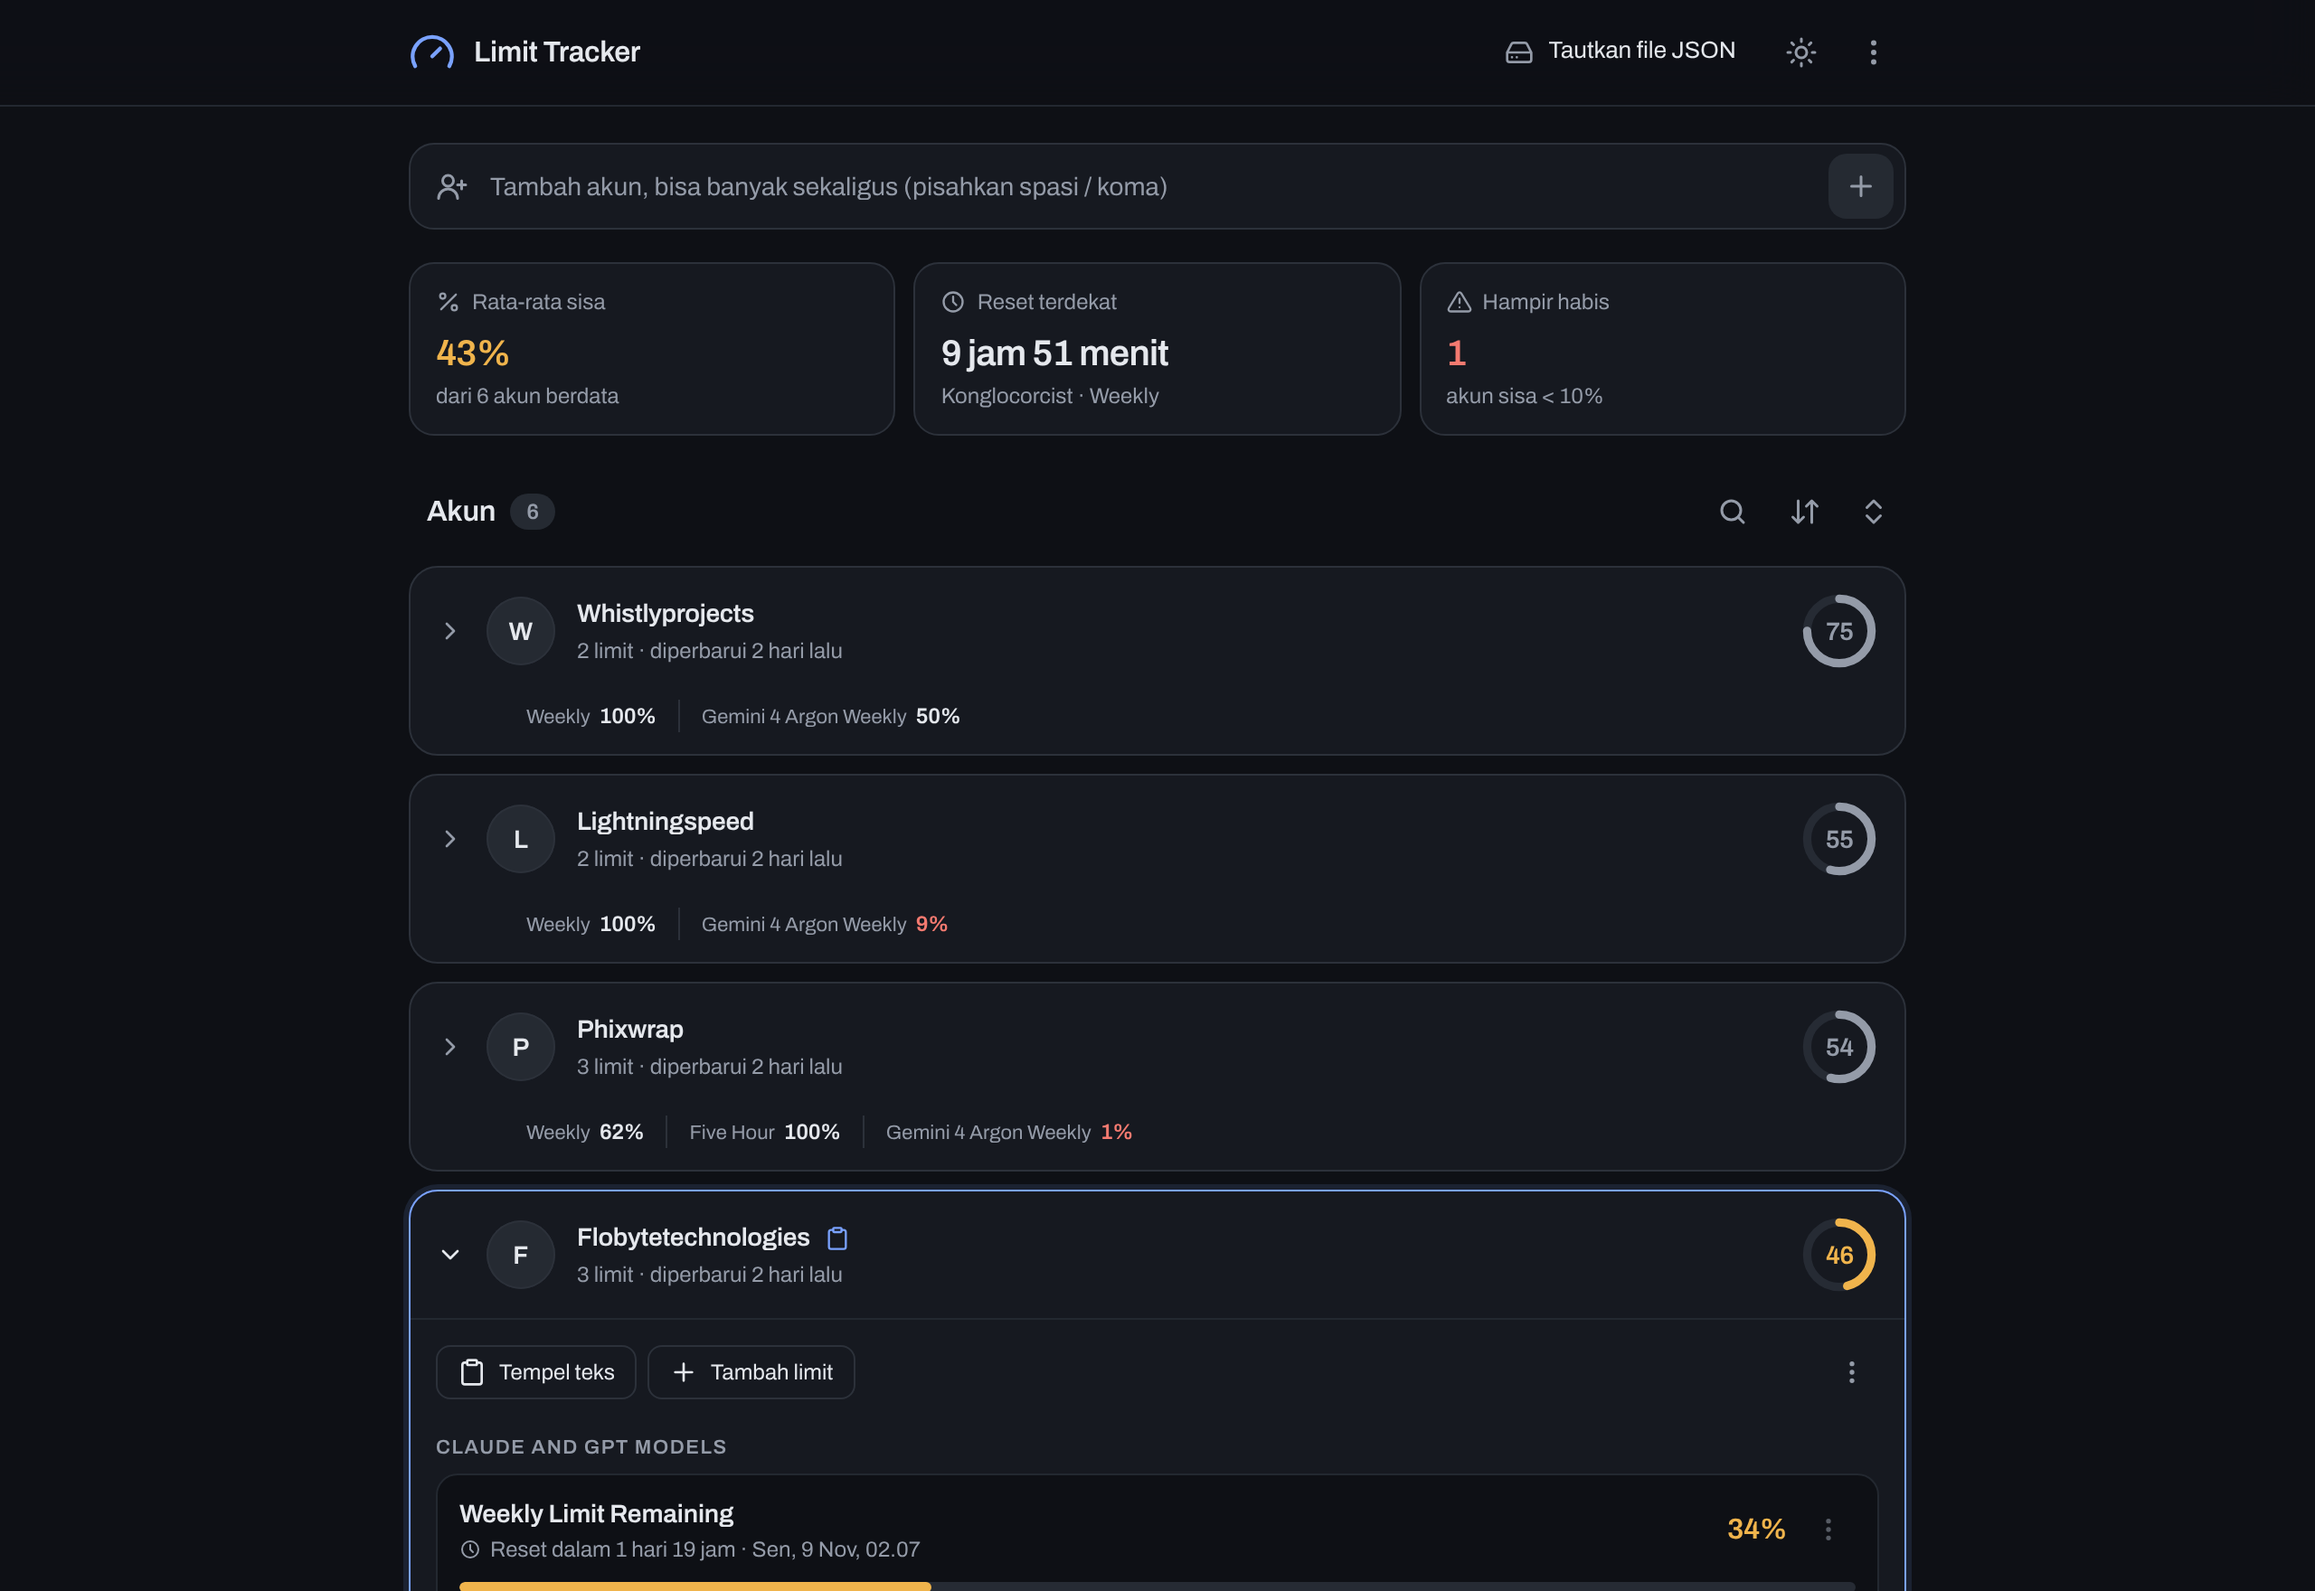
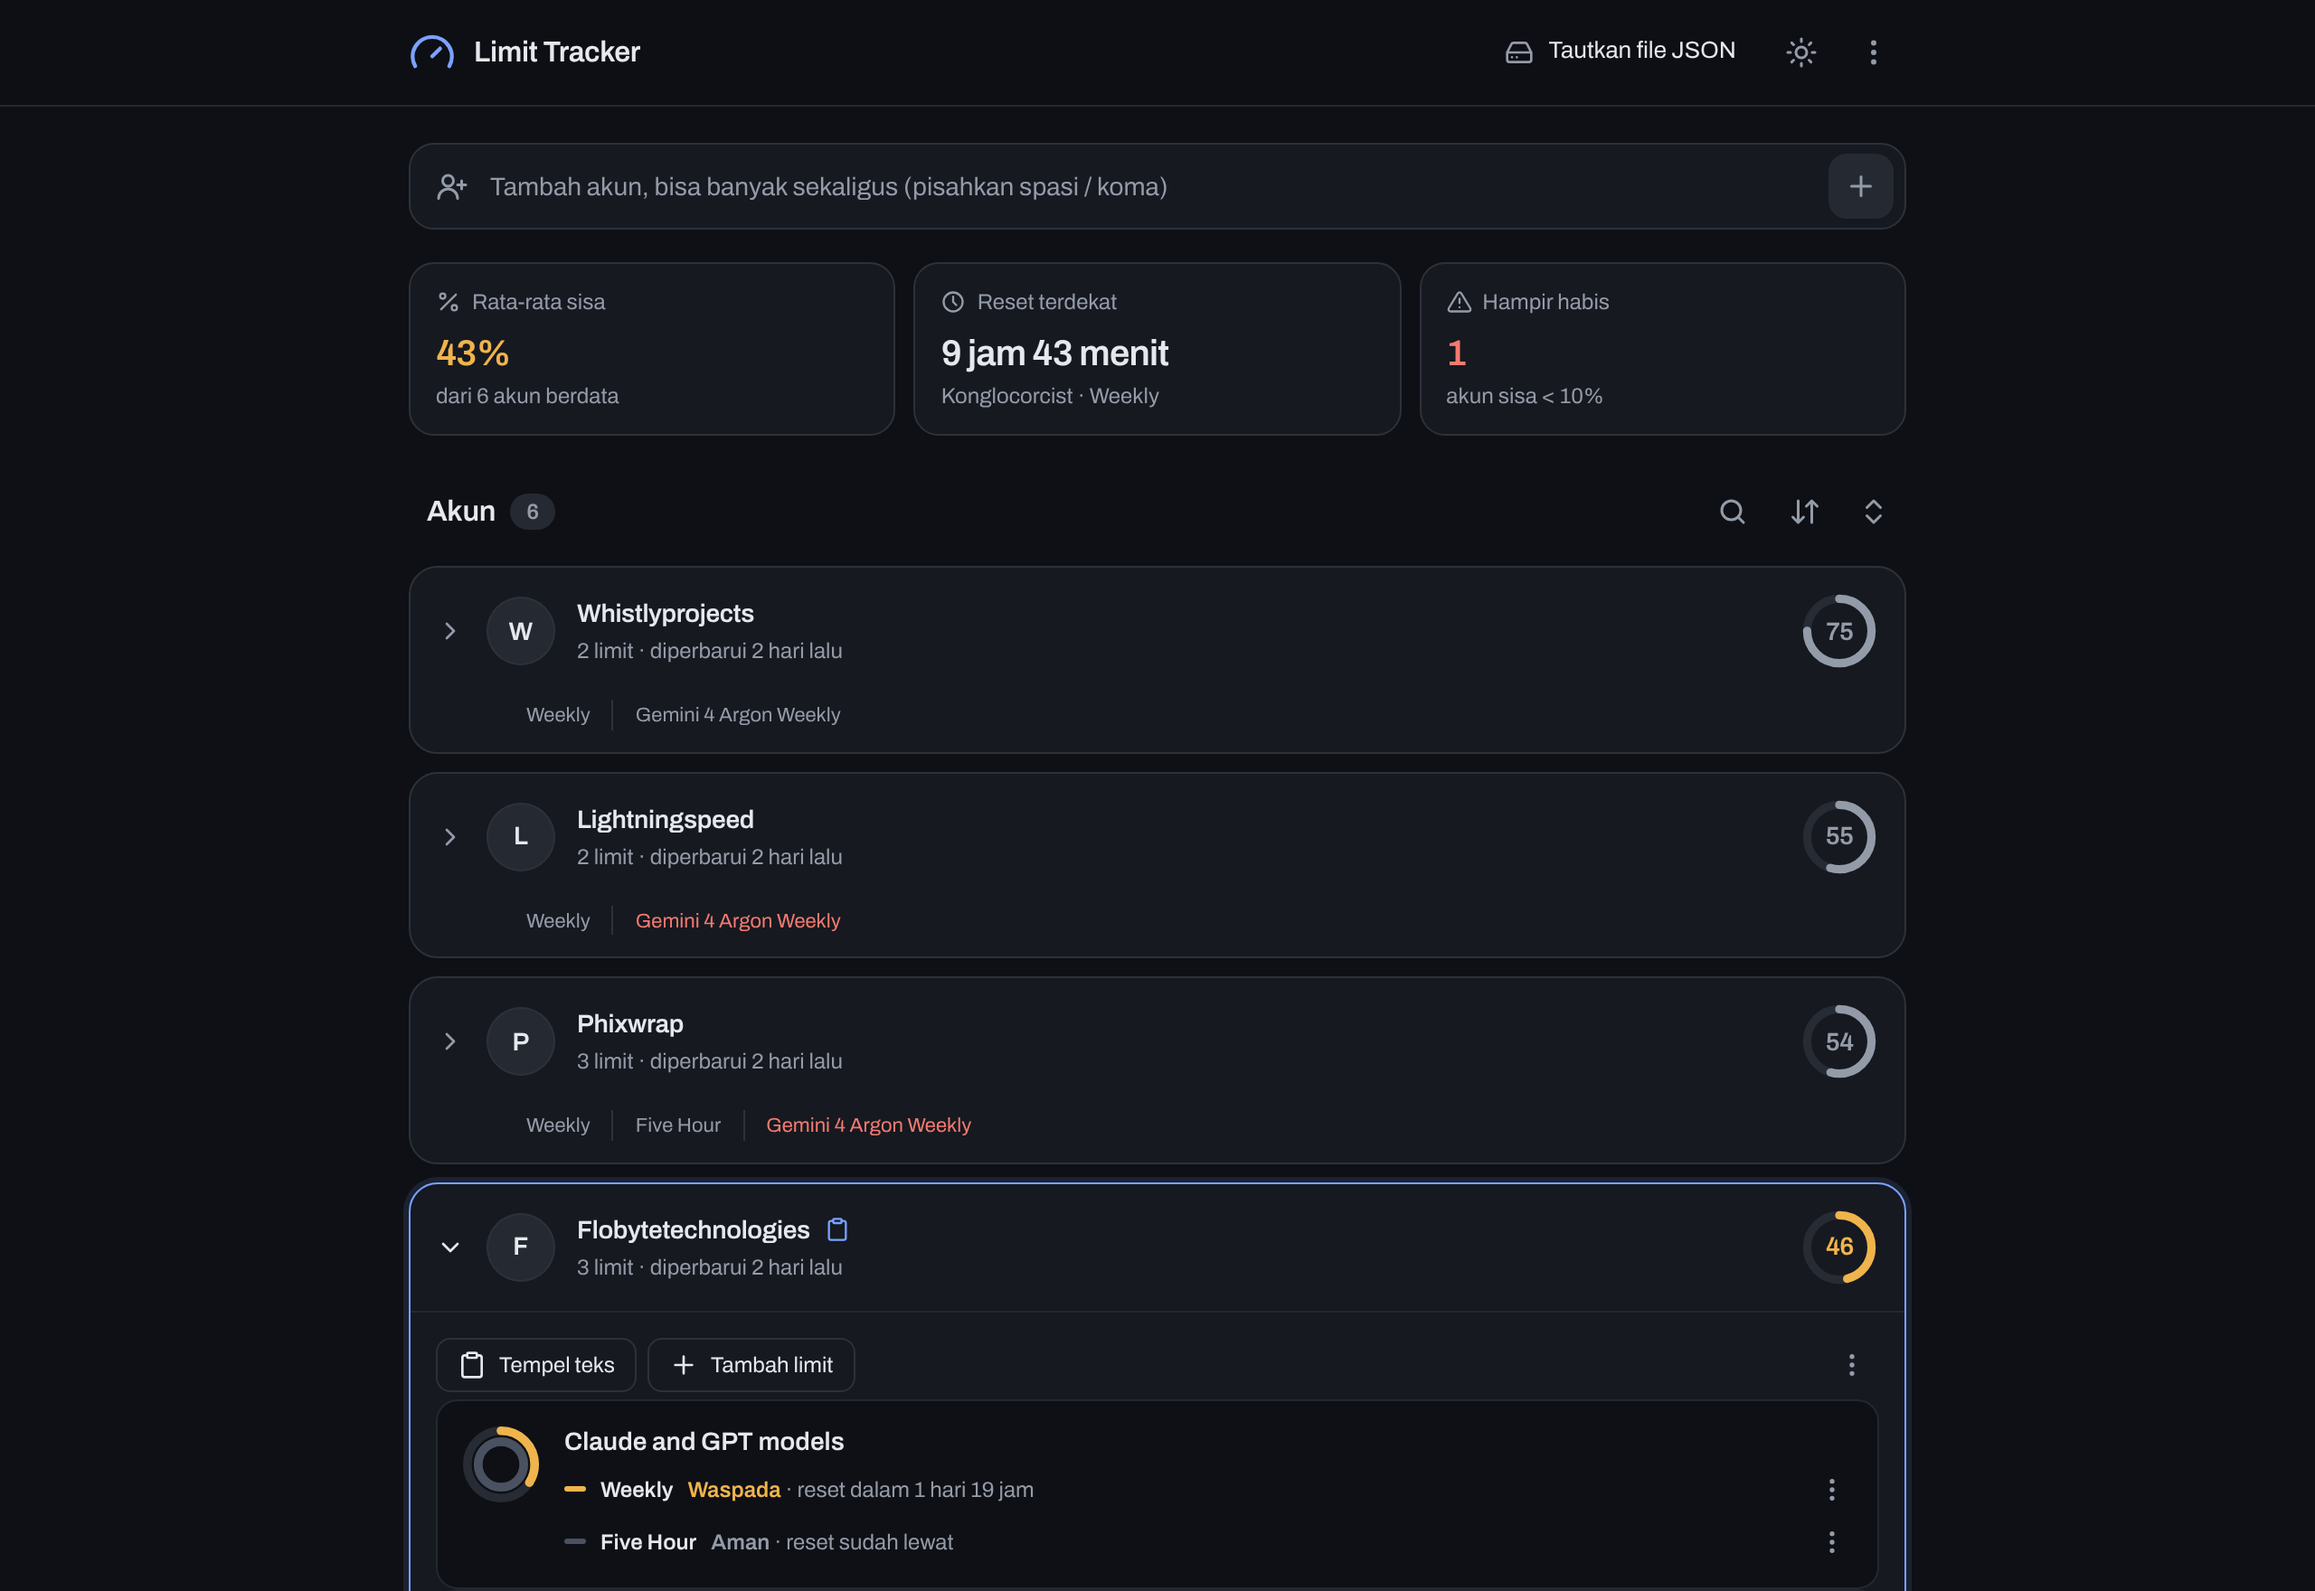
Limit: satu baris per kategori, digabung jadi donut cincin, tanpa persen
Sebelum: satu baris per limit berisi label + sub-teks + angka persen + bar,
dan judul kategori di atasnya. Untuk kartu Flobytetechnologies itu 3 baris
(Weekly, Five Hour, Gemini 4 Argon Weekly) + 2 judul, dengan 4 angka persen.

Sesudah (per kategori di dalam kartu):
- 1 baris per kategori, donut di kiri.
- Kategori yang punya >1 limit (Weekly + Five Hour) digabung: satu cincin
  per limit di dalam satu donut, urut luar -> dalam, plus legenda 1 baris
  per cincin (kunci warna, nama, kata status, waktu reset, menu aksi).
- Kategori yang cuma punya 1 limit tidak digabung: cincin tunggal, kata
  keterangan diletakkan di ujung baris.
- Tidak ada persen sama sekali di area ini dan di baris chip kartu:
  panjang busur menyatakan sisa, kata (Aman/Waspada/Kritis) menyatakan
  status. Total 4 angka persen + 3 bar hilang, 3 baris jadi 2.

Warna: cincin "Aman" netral (--bd-strong), waspada kuning, kritis merah.
Satu datum = satu sinyal warna: kunci legenda + kata status, angkanya hilang.

Verifikasi: 320-1280px 0 pageerror; ukuran font tetap 6 di halaman; buka
kartu -> 2 baris kategori, 2 donut, 0 persen di body; kebab -> menu
Edit/Hapus jalan; form edit tampil lalu batal balik ke 2 baris.

Changed region(s): [[0.1875, 0.4375, 0.8125, 0.8125], [0.1875, 0.8438, 0.7812, 1.0], [0.4375, 0.2188, 0.4688, 0.25]]

diff --git a/app.js b/app.js
@@ -381,19 +381,65 @@
     b.disabled = !S.accounts.length;
   }
 
-  function limitRow(a, l, i) {
-    if (ui.edit && ui.edit.id === a.id && ui.edit.i === i) return limitForm(a, l, i);
-    var p = eff(l), sub;
-    if (l.resetAt && l.resetAt > Date.now()) sub = 'Reset dalam ' + dur(l.resetAt - Date.now()) + ' · ' + when(l.resetAt);
-    else if (l.resetAt) sub = 'Waktu reset sudah lewat, dihitung 100%';
-    else sub = l.pct < 100 ? 'Waktu reset belum diisi' : 'Penuh';
-    return '<li class="limit lv-' + lvl(p) + '" style="--w:' + p + '%">' +
-      '<div class="limit-top"><div class="limit-info"><div class="limit-label">' + esc(l.label) + '</div>' +
-      '<div class="limit-sub">' + ic('clock') + '<span>' + esc(sub) + '</span></div></div>' +
-      '<span class="limit-pct num">' + Math.round(p) + '%</span>' +
-      '<div class="limit-acts">' +
-      '<button class="icon-btn sm" type="button" data-act="menu-lim" data-i="' + i + '" aria-haspopup="menu" aria-label="Aksi limit" title="Aksi limit">' + ic('more') + '</button>' +
-      '</div></div><div class="bar"><i></i></div></li>';
+  /* Satu kategori = satu baris.
+     Kalau kategorinya punya lebih dari satu limit (mis. Weekly + Five Hour),
+     semuanya digambar sebagai cincin konsentris di dalam satu donut: satu
+     cincin per limit, urut dari luar ke dalam. Kalau limitnya cuma satu, tidak
+     ada yang digabung — donut satu cincin, keterangannya ditaruh di ujung baris.
+     Tidak ada angka persen di sini: panjang busur sudah menyatakan sisanya,
+     sisanya diwakili kata (Aman / Waspada / Kritis) + waktu reset. */
+  function donutHTML(items) {
+    var radii = [17, 11.5, 6], out = '<svg viewBox="0 0 42 42" aria-hidden="true">';
+    for (var k = 0; k < items.length && k < radii.length; k++) {
+      var p = eff(items[k].l), r = radii[k], c = 2 * Math.PI * r;
+      out += '<circle class="dt" cx="21" cy="21" r="' + r + '"/>';
+      if (p > 0) out += '<circle class="dv lv-' + lvl(p) + '" cx="21" cy="21" r="' + r +
+        '" stroke-dasharray="' + (c * p / 100).toFixed(2) + ' ' + c.toFixed(2) + '"/>';
+    }
+    return out + '</svg>';
+  }
+
+  function stateWord(p) { return p >= 50 ? 'Aman' : p >= 10 ? 'Waspada' : 'Kritis'; }
+
+  function resetWords(l) {
+    if (l.resetAt && l.resetAt > Date.now()) return 'reset dalam ' + dur(l.resetAt - Date.now());
+    if (l.resetAt) return 'reset sudah lewat';
+    return l.pct < 100 ? 'reset belum diisi' : 'penuh';
+  }
+
+  function catRow(a, sec, items) {
+    for (var k = 0; k < items.length; k++) {
+      if (ui.edit && ui.edit.id === a.id && ui.edit.i === items[k].i) return limitForm(a, items[k].l, items[k].i);
+    }
+    var kebab = function (idx) {
+      return '<button class="icon-btn sm" type="button" data-act="menu-lim" data-i="' + idx +
+        '" aria-haspopup="menu" aria-label="Aksi limit" title="Aksi limit">' + ic('more') + '</button>';
+    };
+    var strip = function (l) {
+      var t = shortLabel(l.label);
+      if (sec && sec !== 'Umum') {
+        var re = new RegExp('^' + sec.replace(/[.*+?^${}()|[\]\\]/g, '\\$&') + '\\s*', 'i');
+        t = t.replace(re, '') || t;
+      }
+      return t;
+    };
+    var h = '<li class="cat"><span class="cat-donut">' + donutHTML(items) + '</span><div class="cat-main">';
+    if (items.length === 1) {
+      var l = items[0].l, p = eff(l), titled = sec && sec !== 'Umum';
+      h += '<div class="cat-line"><span class="cat-name">' + esc(titled ? sec : shortLabel(l.label)) + '</span>' +
+        '<span class="cat-w"><span class="st lv-' + lvl(p) + '">' + stateWord(p) + '</span> · ' +
+        (titled ? esc(strip(l)) + ' · ' : '') + esc(resetWords(l)) + '</span>' + kebab(items[0].i) + '</div>';
+    } else {
+      h += '<div class="cat-head"><span class="cat-name">' + esc(sec || 'Umum') + '</span></div>';
+      items.forEach(function (it) {
+        var q = eff(it.l);
+        h += '<div class="cat-line"><span class="cat-key lv-' + lvl(q) + '"></span>' +
+          '<span class="cat-t">' + esc(strip(it.l)) + '</span>' +
+          '<span class="cat-w"><span class="st lv-' + lvl(q) + '">' + stateWord(q) + '</span> · ' + esc(resetWords(it.l)) + '</span>' +
+          kebab(it.i) + '</div>';
+      });
+    }
+    return h + '</div></li>';
   }
 
   function limitForm(a, l, i) {
@@ -432,13 +478,13 @@
     var groups = [], gi = {}, newForm = ui.edit && ui.edit.id === a.id && ui.edit.i === 'new';
     a.limits.forEach(function (l, i) {
       if (gi[l.section] == null) { gi[l.section] = groups.length; groups.push({ n: l.section, r: [] }); }
-      groups[gi[l.section]].r.push(limitRow(a, l, i));
+      groups[gi[l.section]].r.push({ l: l, i: i });
     });
     if (newForm) h += '<div class="sect">Limit baru</div><ul class="limits">' + limitForm(a, null, 'new') + '</ul>';
     if (!a.limits.length && !newForm) {
       h += '<div class="empty-acc">Belum ada limit. Tempel teks atau tambah manual.</div>';
     }
-    groups.forEach(function (g) { h += '<div class="sect">' + esc(g.n) + '</div><ul class="limits">' + g.r.join('') + '</ul>'; });
+    groups.forEach(function (g) { h += '<ul class="limits">' + catRow(a, g.n, g.r) + '</ul>'; });
     return h;
   }
 
@@ -446,7 +492,7 @@
     var av = avg(a), lv = lvl(av), c = 2 * Math.PI * 17;
     var chips = a.limits.map(function (l) {
       var p = eff(l);
-      return '<span class="chip lv-' + lvl(p) + '"><i></i>' + esc(shortLabel(l.label)) + ' <b class="num">' + Math.round(p) + '%</b></span>';
+      return '<span class="chip lv-' + lvl(p) + '">' + esc(shortLabel(l.label)) + '</span>';
     }).join('');
     var enter = ui.fresh || ui.newIds[a.id];
     return '<li class="card' + (a.open ? ' open' : '') + (S.sel === a.id ? ' sel' : '') + (enter ? ' enter' : '') + '" data-id="' + a.id + '" style="--i:' + idx + ';--h:' + hue(a.email) + '">' +

diff --git a/style.css b/style.css
@@ -402,9 +402,8 @@ main { padding-bottom: 56px; }
 .chips > .chip:first-child { padding-left: 0; }
 .chip + .chip { border-left: 1px solid var(--bd); }
 .chip i { display: none; }
-.chip b { color: var(--tx); font-weight: 700; font-size: var(--fs-2); font-variant-numeric: tabular-nums; letter-spacing: -.02em; }
-.chip.lv-warn b { color: var(--warn); }
-.chip.lv-bad b { color: var(--bad); }
+.chip.lv-warn { color: var(--warn); }
+.chip.lv-bad { color: var(--bad); }
 
 /* Body */
 .body { padding: 4px 14px 16px; border-top: 1px solid var(--bd2); }
@@ -428,6 +427,33 @@ main { padding-bottom: 56px; }
 
 .sect { margin: 14px 0 6px; font-size: var(--fs-1); font-weight: 600; letter-spacing: .07em; text-transform: uppercase; color: var(--mut); }
 .limits { list-style: none; margin: 0; padding: 0; border: 1px solid var(--bd2); border-radius: 12px; overflow: hidden; background: var(--bg); }
+/* Satu kategori = satu baris + satu donut. Cincin di dalam donut: satu per
+   limit, urut luar -> dalam. Warna cuma dipakai kalau perlu ditengok
+   (Aman = netral). Tidak ada persen: busur + kata yang menyatakan sisanya. */
+.cat { display: flex; gap: 12px; align-items: flex-start; padding: 12px; border-top: 1px solid var(--bd2); }
+.limits > .cat:first-child { border-top: 0; }
+.cat-donut { width: 46px; height: 46px; flex: none; }
+.cat-donut svg { width: 46px; height: 46px; display: block; transform: rotate(-90deg); }
+.cat-donut .dt { fill: none; stroke: var(--track); stroke-width: 4.4; }
+.cat-donut .dv { fill: none; stroke-width: 4.4; stroke-linecap: round; transition: stroke-dasharray .6s cubic-bezier(.2,.8,.2,1); }
+.cat-donut .dv.lv-ok { stroke: var(--bd-strong); }
+.cat-donut .dv.lv-warn { stroke: var(--warn); }
+.cat-donut .dv.lv-bad { stroke: var(--bad); }
+.cat-main { flex: 1; min-width: 0; display: flex; flex-direction: column; gap: 3px; }
+.cat-head, .cat-line { display: flex; align-items: center; gap: 8px; min-width: 0; }
+.cat-name { font-size: var(--fs-3); font-weight: 600; white-space: nowrap; overflow: hidden; text-overflow: ellipsis; }
+.cat-line { font-size: var(--fs-2); color: var(--mut); }
+.cat-line .cat-name { font-size: var(--fs-3); }
+.cat-t { font-weight: 600; color: var(--tx); flex: none; }
+.cat-key { width: 12px; height: 3px; border-radius: 2px; flex: none; background: var(--bd-strong); }
+.cat-key.lv-warn { background: var(--warn); }
+.cat-key.lv-bad { background: var(--bad); }
+.cat-w { white-space: nowrap; overflow: hidden; text-overflow: ellipsis; min-width: 0; }
+.cat-line .icon-btn.sm { width: 26px; height: 26px; margin-left: auto; flex: none; }
+.st { font-weight: 600; }
+.st.lv-ok { color: var(--mut); }
+.st.lv-warn { color: var(--warn); }
+.st.lv-bad { color: var(--bad); }
 .limit { padding: 11px 12px; border-top: 1px solid var(--bd2); }
 .limit:first-child { border-top: 0; }
 .limit-top { display: flex; align-items: center; gap: 8px; }
